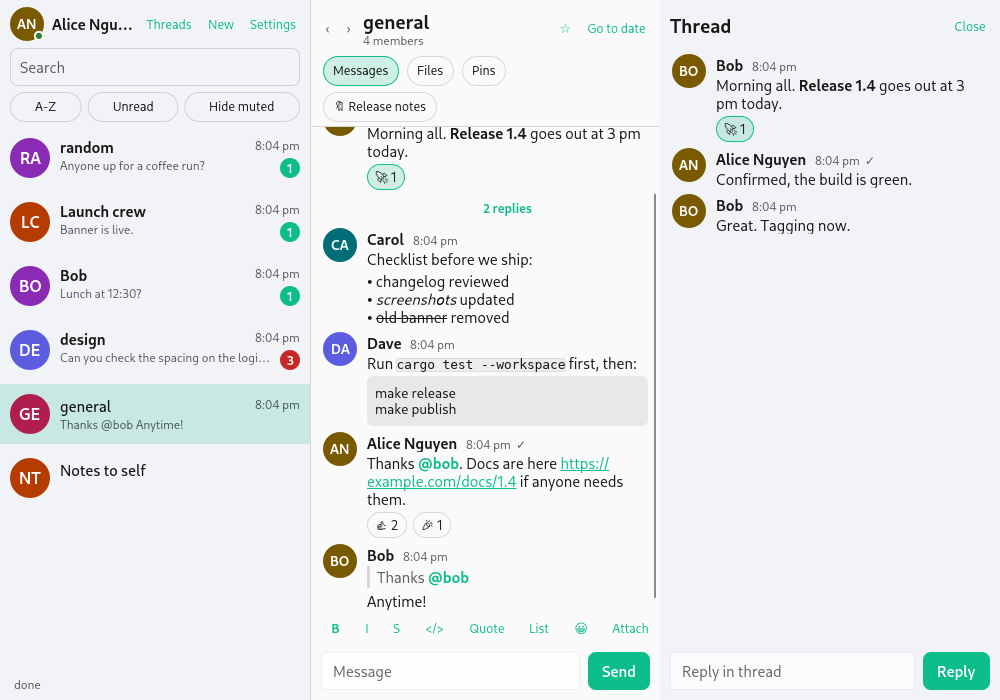
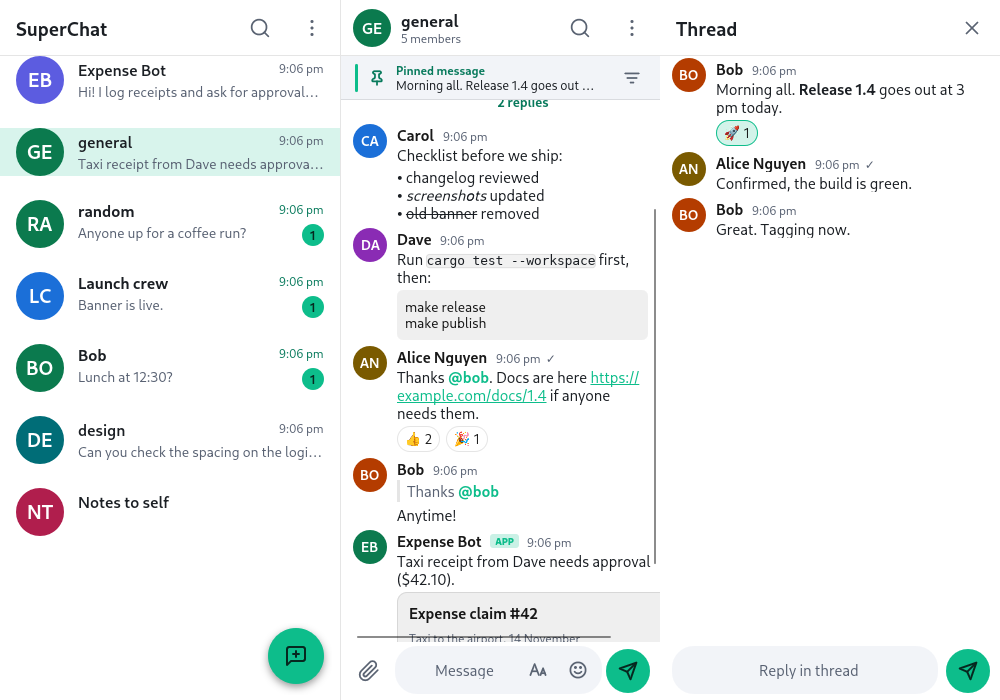
Release 1.1.3: version bump, docs, screenshots, tests
Claude-Session: https://claude.ai/code/session_01RdbzB11xFkq8Fk2STabh7L

diff --git a/CHANGELOG.md b/CHANGELOG.md
@@ -1,5 +1,18 @@
 # Changelog
 
+## 1.1.3
+
+A mobile-native UX pass (owner feedback). Server API is unchanged; 1.0 to 1.1.2 apps and servers stay compatible.
+
+* **One Back stack** (`apps/desktop/src/nav.rs`, unit tested). Android system Back, Esc and Alt+Left close the topmost popup, sheet, dialog or menu first, then pop a page (Settings sub-page, Settings, chat info, thread, search...), then the chat, then the list; only then does Android move the app to the background. Fixes "Back on Settings leaves the app" and "Back does not close Options".
+* **Native popups.** Action menus are bottom sheets (drag handle, dim scrim, tap outside or swipe down to close, rounded top corners): list menu, chat menu, chat options, mute, notification level, section, message actions with a quick-reaction row, attach, emoji, sort, forward/share, the Settings pickers. Confirmations are centred alert dialogs with Cancel and OK. Forms (bot form, schedule, bookmark, new channel, certificate trust) are sheets with a visible close X and a sticky footer. Wide windows keep popovers and side panels.
+* **Chat list**: one slim top bar (title, search, a light outline lock/unlock only when a PIN is set, a 3-dot menu with Settings, Threads, Sort, Unread only, Hide muted, Drafts & sent). Floating New chat button bottom-right opens a full-screen New chat page (people search; admins also get New channel). Search is its own full-screen page with the filter chips and recent searches. No permanent search box or filter pills.
+* **Chat**: top bar with back arrow, avatar, name and a one-line subtitle (members, last active, typing), search and a 3-dot menu. Tapping the title opens Chat info with Members, Files, Pins, Bookmarks (and Home for apps). Pins and bookmarks are one slim banner under the bar (tap to jump, it cycles). Composer: attach, text field, Aa (formatting toolbar, hidden by default), emoji, send or mic. Long-press (right-click on desktop) a message for its action sheet.
+* **Settings redesign**: profile header card with status chip, grouped rounded cards with coloured icon rows (Profile, Notifications, Appearance, Chats, Privacy & Security, About, Desktop) and sub-pages with pickers as sheets. Sign-out and Devices stay gated by Privacy options. A new vector icon set (`ui/icons.slint`, 49 icons), design tokens (spacing 4/8/12/16/24, radii, type scale) and a softer dark theme with 4.5:1 text contrast.
+* **QR scan fixed** (Android). Root cause: the login screen's `scan-qr` callback was never connected to the platform hook, so the button did nothing. Now it opens the scanner; the CAMERA permission is requested at runtime with a rationale; every failure (no camera, permission refused, bad QR, scanner not starting) shows as text on the login screen; new "Choose image with QR" (photo picker, decoded with ZXing); a scanned or tapped link signs in automatically.
+* **Admin panel dialogs**: every dialog has a visible close X, closes with Esc and a click on the backdrop, fits and scrolls on phone heights (390x844, 360x640) and keeps its buttons in a sticky footer. New Playwright test `admin-dialogs.mjs`.
+* Client-core: `Client::create_channel`.
+
 ## 1.1.2
 
 * Sign out and Sign out of all devices are available in the apps only for users whose admin-set Privacy options is Allow (admins and owners always have them). For Disallow (the default) the controls and the Devices list are hidden everywhere in the desktop and Android apps; users cannot end their own session by accident. Changing the setting takes effect in open apps at once (`me_update`).

diff --git a/docs/DECISIONS.md b/docs/DECISIONS.md
@@ -190,3 +190,15 @@ Not verified: real-device performance, IME composition for CJK, accessibility (T
 * **Sign out of all devices** asks for confirmation inline (a second step with "Sign out everywhere" / Cancel) because it also signs out this device and erases its local chats.
 * **PIN hint:** the App Lock text no longer tells people to sign out to reset a forgotten PIN; it says to ask the admin.
 * **Client-core:** `logout()` returns the `forbidden` error without wiping when the server refuses; `can_sign_out()` is the single check used by the UI; `logout_all()` and CLI `logout-all` were added. Older apps still show the buttons for Disallow users, but the server refuses them.
+
+## 1.1.3 decisions: mobile-native UX
+
+* **Back stack as a snapshot reducer.** The visible state stays in Slint properties; `nav::NavState` is a plain snapshot of them, `nav::pop` decides which layer closes (tested without a window), and `handle_back` applies it. Order: alert dialog, forms, sheet/menu/emoji, App Lock entry, inline bars, Settings sub-page, page, thread, chat info, chat (phone only; on wide windows the chat sits beside the list so there is no chat page). Esc, Alt+Left, the app-bar arrows and Android Back all call the same function. Empty stack returns false: Android then calls `moveTaskToBack`, desktop does nothing (Alt+Left then falls back to conversation history).
+* **Android Back plumbing.** `android:enableOnBackInvokedCallback="false"` and `dispatchKeyEvent`/`onBackPressed` call `Native.nativeBack()`, which asks the Slint event loop and waits up to 600 ms for the answer (false on timeout, so Back can never trap the user). Predictive back is off on purpose.
+* **Sheets, dialogs, pages.** One `menu-kind` string selects the open sheet (so one pop closes it); `confirm` selects an alert dialog; forms use a modal card that is a bottom sheet on phones and a centred card on wide windows, with a close X and a sticky footer. Wide windows show the same sheets as centred cards, and the two 3-dot menus as popovers at the top right.
+* **Long press** is a small `PressArea` (450 ms, 12 px slop) because Slint has no long-press event; right-click gives the same on desktop. On wide windows a click on a message also opens its actions.
+* **Icons** are stroke paths on a 24 px grid drawn by one `Icon` component (Feather/Lucide style shapes, dots as tiny round strokes), no font or image files. Light, muted tint in both themes.
+* **Colours** are tokens in `Theme`: soft dark (#1c1f24 base, never black), accent text variants that keep 4.5:1 on both backgrounds, dark text on the green and orange accents. Touch targets are at least 48 px; sizes in dp do not scale with text size, text does.
+* **QR root cause**: the Slint `scan-qr` callback had no handler. Scanner failures are reported through a `take_login_error` hook so they are text on the login screen, not toasts that can be missed.
+* **Admin dialogs**: one `dialog()` helper changed, so every dialog (including the login link) gets the X, Esc, backdrop and sticky footer.
+* **Left out on purpose**: bottom navigation (not wanted), reply swipe and pull to refresh (optional), group creation in the app, bubbles.

diff --git a/docs/RELEASE-NOTES-v1.1.3.md b/docs/RELEASE-NOTES-v1.1.3.md
@@ -1,0 +1,22 @@
+# SuperChat v1.1.3
+
+A mobile-native UX pass on top of 1.1.2, driven by owner feedback. The server API is unchanged; 1.0 to 1.1.2 servers and apps keep working (`min_client_version` is still 1.0.0).
+
+## What changed
+
+* **Back works like a phone app.** One Back stack: popup, sheet or dialog first, then page, then chat, then list, and only then the app goes to the background. Esc and Alt+Left behave the same on desktop.
+* **Popups are native.** Bottom sheets for menus and pickers, centred alert dialogs only for confirmations, full-screen pages for Settings, Search, New chat, Threads, Drafts, Chat info.
+* **Chat list and chat screen are decluttered** (see CHANGELOG): 3-dot menu, floating New chat button, search page, chat info page, pinned/bookmark banner, "Aa" formatting toggle, long-press message actions.
+* **Settings** is a grouped, icon-led, card layout with sub-pages and sheet pickers.
+* **Android QR login works** (and can read a picture of the QR code); failures are shown as text.
+* **Admin panel dialogs** all have a close X, Esc, backdrop click and fit small phones.
+
+## Honest limitations
+
+* The live camera scan was verified only up to the permission prompt on the emulator (its virtual camera shows a synthetic scene, not a QR code). The decode path was verified with a real QR picture through the photo picker, and a login link via `am start`. Please try the live camera once on a real phone.
+* Swipe-down to close a sheet works from the drag handle and title area, not from the sheet body (so lists inside a sheet can scroll). Reply-by-swipe, pull to refresh and bottom navigation were not built (optional or not wanted).
+* New group (admin) is not in the app; New channel is. Notification sounds and per-channel defaults are Android's own settings or the per-conversation Notify me about; there is no in-app sound picker. No storage/cache page and no in-app update check: SuperChat has no cache-clearing or update API to call.
+* Predictive back is deliberately off (legacy Back dispatch, `enableOnBackInvokedCallback=false`) so the Rust Back stack and the system animation cannot disagree.
+* The desktop app's chat history arrows were removed from the header; Alt+Left goes back through the stack and then through conversation history.
+* Message rows keep the existing Slack-like layout (avatar, name, text); chat bubbles were not introduced.
+* Windows and arm64 builds are still not executed.

diff --git a/docs/FEATURES.md b/docs/FEATURES.md
@@ -1,4 +1,4 @@
-# What SuperChat does today (version 1.1.2, Phases 1 and 2)
+# What SuperChat does today (version 1.1.3, Phases 1 and 2)
 
 * Self-hosted team chat. One small server (Docker), apps for Linux and Android (Windows later), an admin web panel, and a command-line client.
 * **Accounts are created by admins only.** There is no sign-up. New people get a one-time login link (works once, expires in 7 days): a web address that opens the app and signs them in, also as a QR code.
@@ -23,6 +23,7 @@ See `STATUS.md` for what is partly built.
 * Search with filter chips (from, in, has link/file/reaction, before, after), people, files and channels in the results, recent searches.
 * Favourites, sections, mute for a time, notify level per conversation, sort, unread only, hide muted, mark as unread, quick switcher (Ctrl+K), back and forward (Alt+Left/Right).
 * Rich messages: bold, italic, strike, code, code blocks, lists, quotes, links, @mentions with autocomplete, emoji picker, reactions with counts, inline pictures.
+* Navigation (1.1.3): one Back stack (Android Back, Esc, Alt+Left), bottom sheets for menus and pickers, alert dialogs for confirmations, full-screen pages, floating New chat button, Chat info page, pinned/bookmark banner, long-press message actions, grouped Settings with sub-pages, Android QR scan with image fallback.
 * Settings: theme and accent, text size (Regular/Large/Extra large), zoom (Ctrl + / - / 0), compact, reduce motion, 12/24 hour, status, profile, devices, sign out and privacy (devices, sign out and sign out of all devices only when your admin sets Privacy options to Allow).
 * Admin: chat viewer, bulk delete with backup, encrypted backups, selective restore, restore onto a new server.
 * Not built yet: voice/video clips, drag and drop, Android share target, tray icon, Android Keystore, push registration on the device.

diff --git a/README.md b/README.md
@@ -11,6 +11,7 @@ Android (one Slint UI shared by all three), plus a command-line client. Your dat
 * No end-to-end encryption: TLS in transit, and admins can read messages (needed for the admin chat viewer and search). Backups are
   encrypted with a passphrase.
 * Bots and automation: Telegram-style bot API, webhooks, interactive forms, scheduled messages, optional AI search and recaps.
+* New in 1.1.3: a mobile-native UX pass (one Back stack, bottom sheets, decluttered list and chat, redesigned Settings, working Android QR scan, closable admin dialogs); see [docs/RELEASE-NOTES-v1.1.3.md](docs/RELEASE-NOTES-v1.1.3.md).
 * New in 1.1.2: self-service Sign out / Sign out of all devices exist only for users whose admin set Privacy options to Allow (see [docs/RELEASE-NOTES-v1.1.2.md](docs/RELEASE-NOTES-v1.1.2.md)).
 * New in 1.1: tap-to-sign-in links with a QR code, several AI providers, App Lock (PIN-hidden conversations), a phone-friendly admin panel. See [docs/RELEASE-NOTES-v1.1.md](docs/RELEASE-NOTES-v1.1.md). Calls (voice/video) are still planned.
 
@@ -97,7 +98,7 @@ Packages (output in `dist/`):
 cargo install cargo-deb && cargo deb -p atomic-desktop --output dist/     # .deb
 packaging/linux/build-appimage.sh                                         # AppImage
 (cd apps/android && ./gradlew assembleRelease)                            # APK (arm64-v8a + x86_64)
-docker build -f deploy/Dockerfile -t superchat:1.1.2 .                    # server image
+docker build -f deploy/Dockerfile -t superchat:1.1.3 .                    # server image
 ```
 
 Windows (`.exe` and NSIS installer) and the published images are built by `.github/workflows/release.yml` when a `v*` tag is pushed.

diff --git a/STATUS.md b/STATUS.md
@@ -1,4 +1,9 @@
-# Status: v1.1.2 (v1.0 plus the 1.1 changes below; calls are Phase 4, not built)
+# Status: v1.1.3 (v1.0 plus the 1.1 changes below; calls are Phase 4, not built)
+
+## v1.1.3 summary
+
+Done: central Back stack (unit tested; verified on the emulator: Settings to list, sheet closes alone, chat to list, list to launcher), bottom sheets and alert dialogs, chat list / chat / Chat info / Settings redesign, icon set and design tokens, Android QR scan fix with runtime permission, image fallback and visible errors, admin dialog close X with Playwright test, version 1.1.3.
+Partial: live camera scan not exercised with a real QR in front of a camera (emulator scene has none); swipe-down only from the sheet handle; no group creation, in-app sound picker, storage page or update check (see docs/RELEASE-NOTES-v1.1.3.md).
 
 ## v1.1 summary
 
